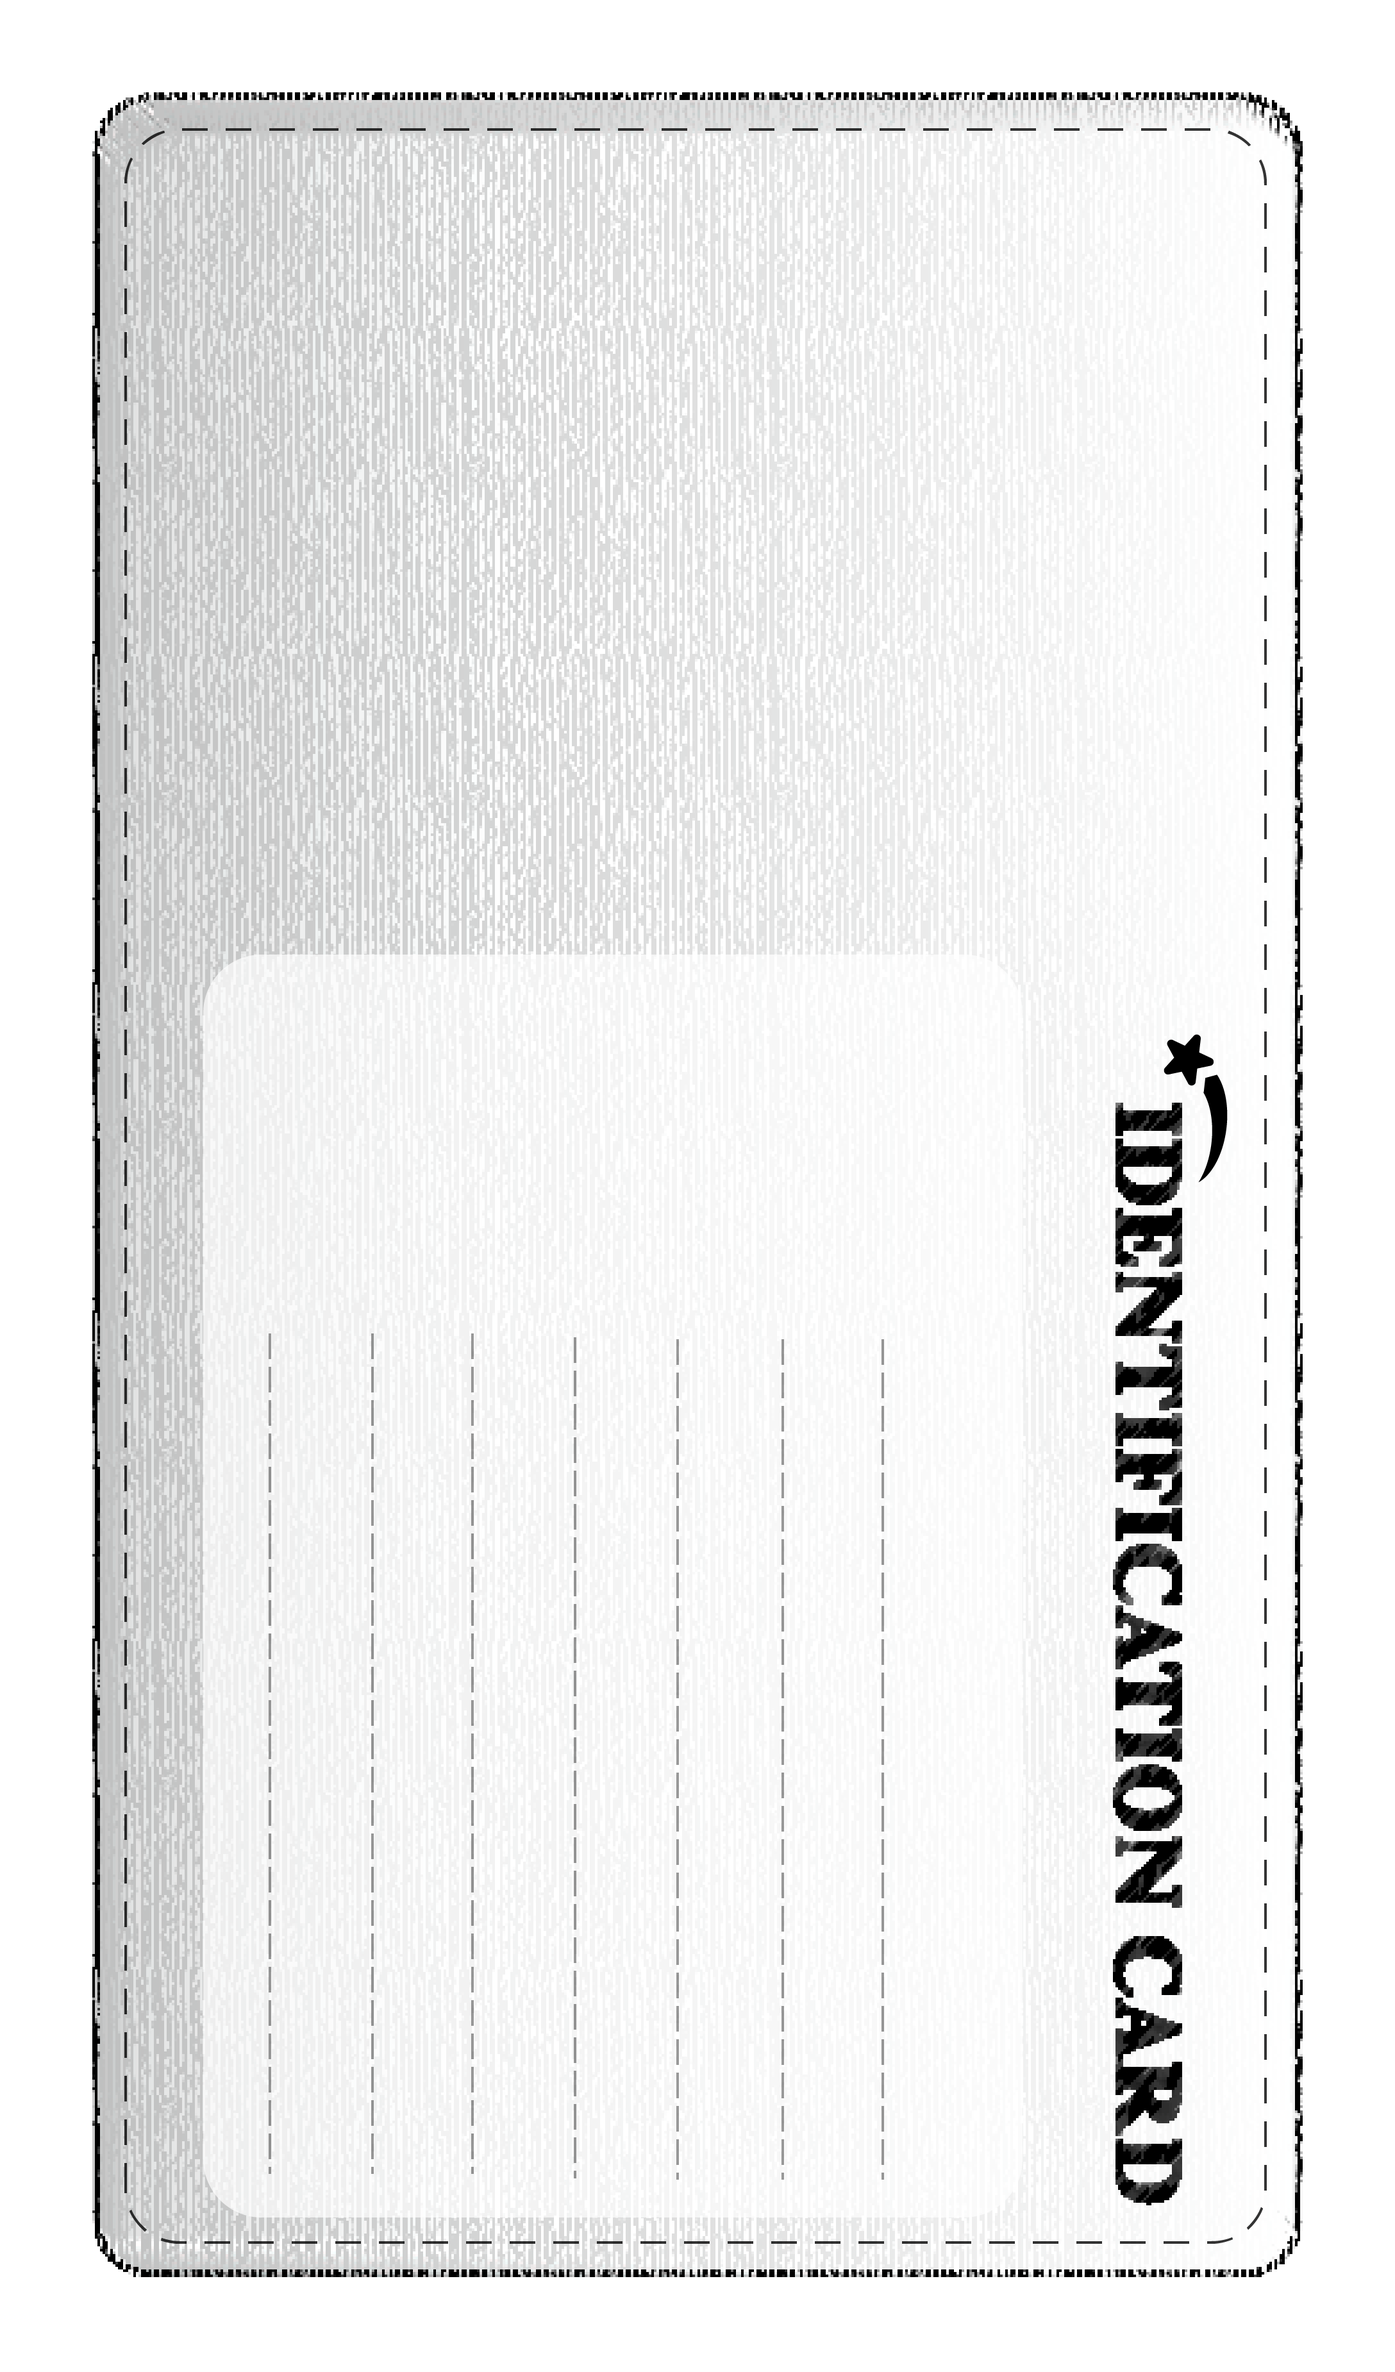
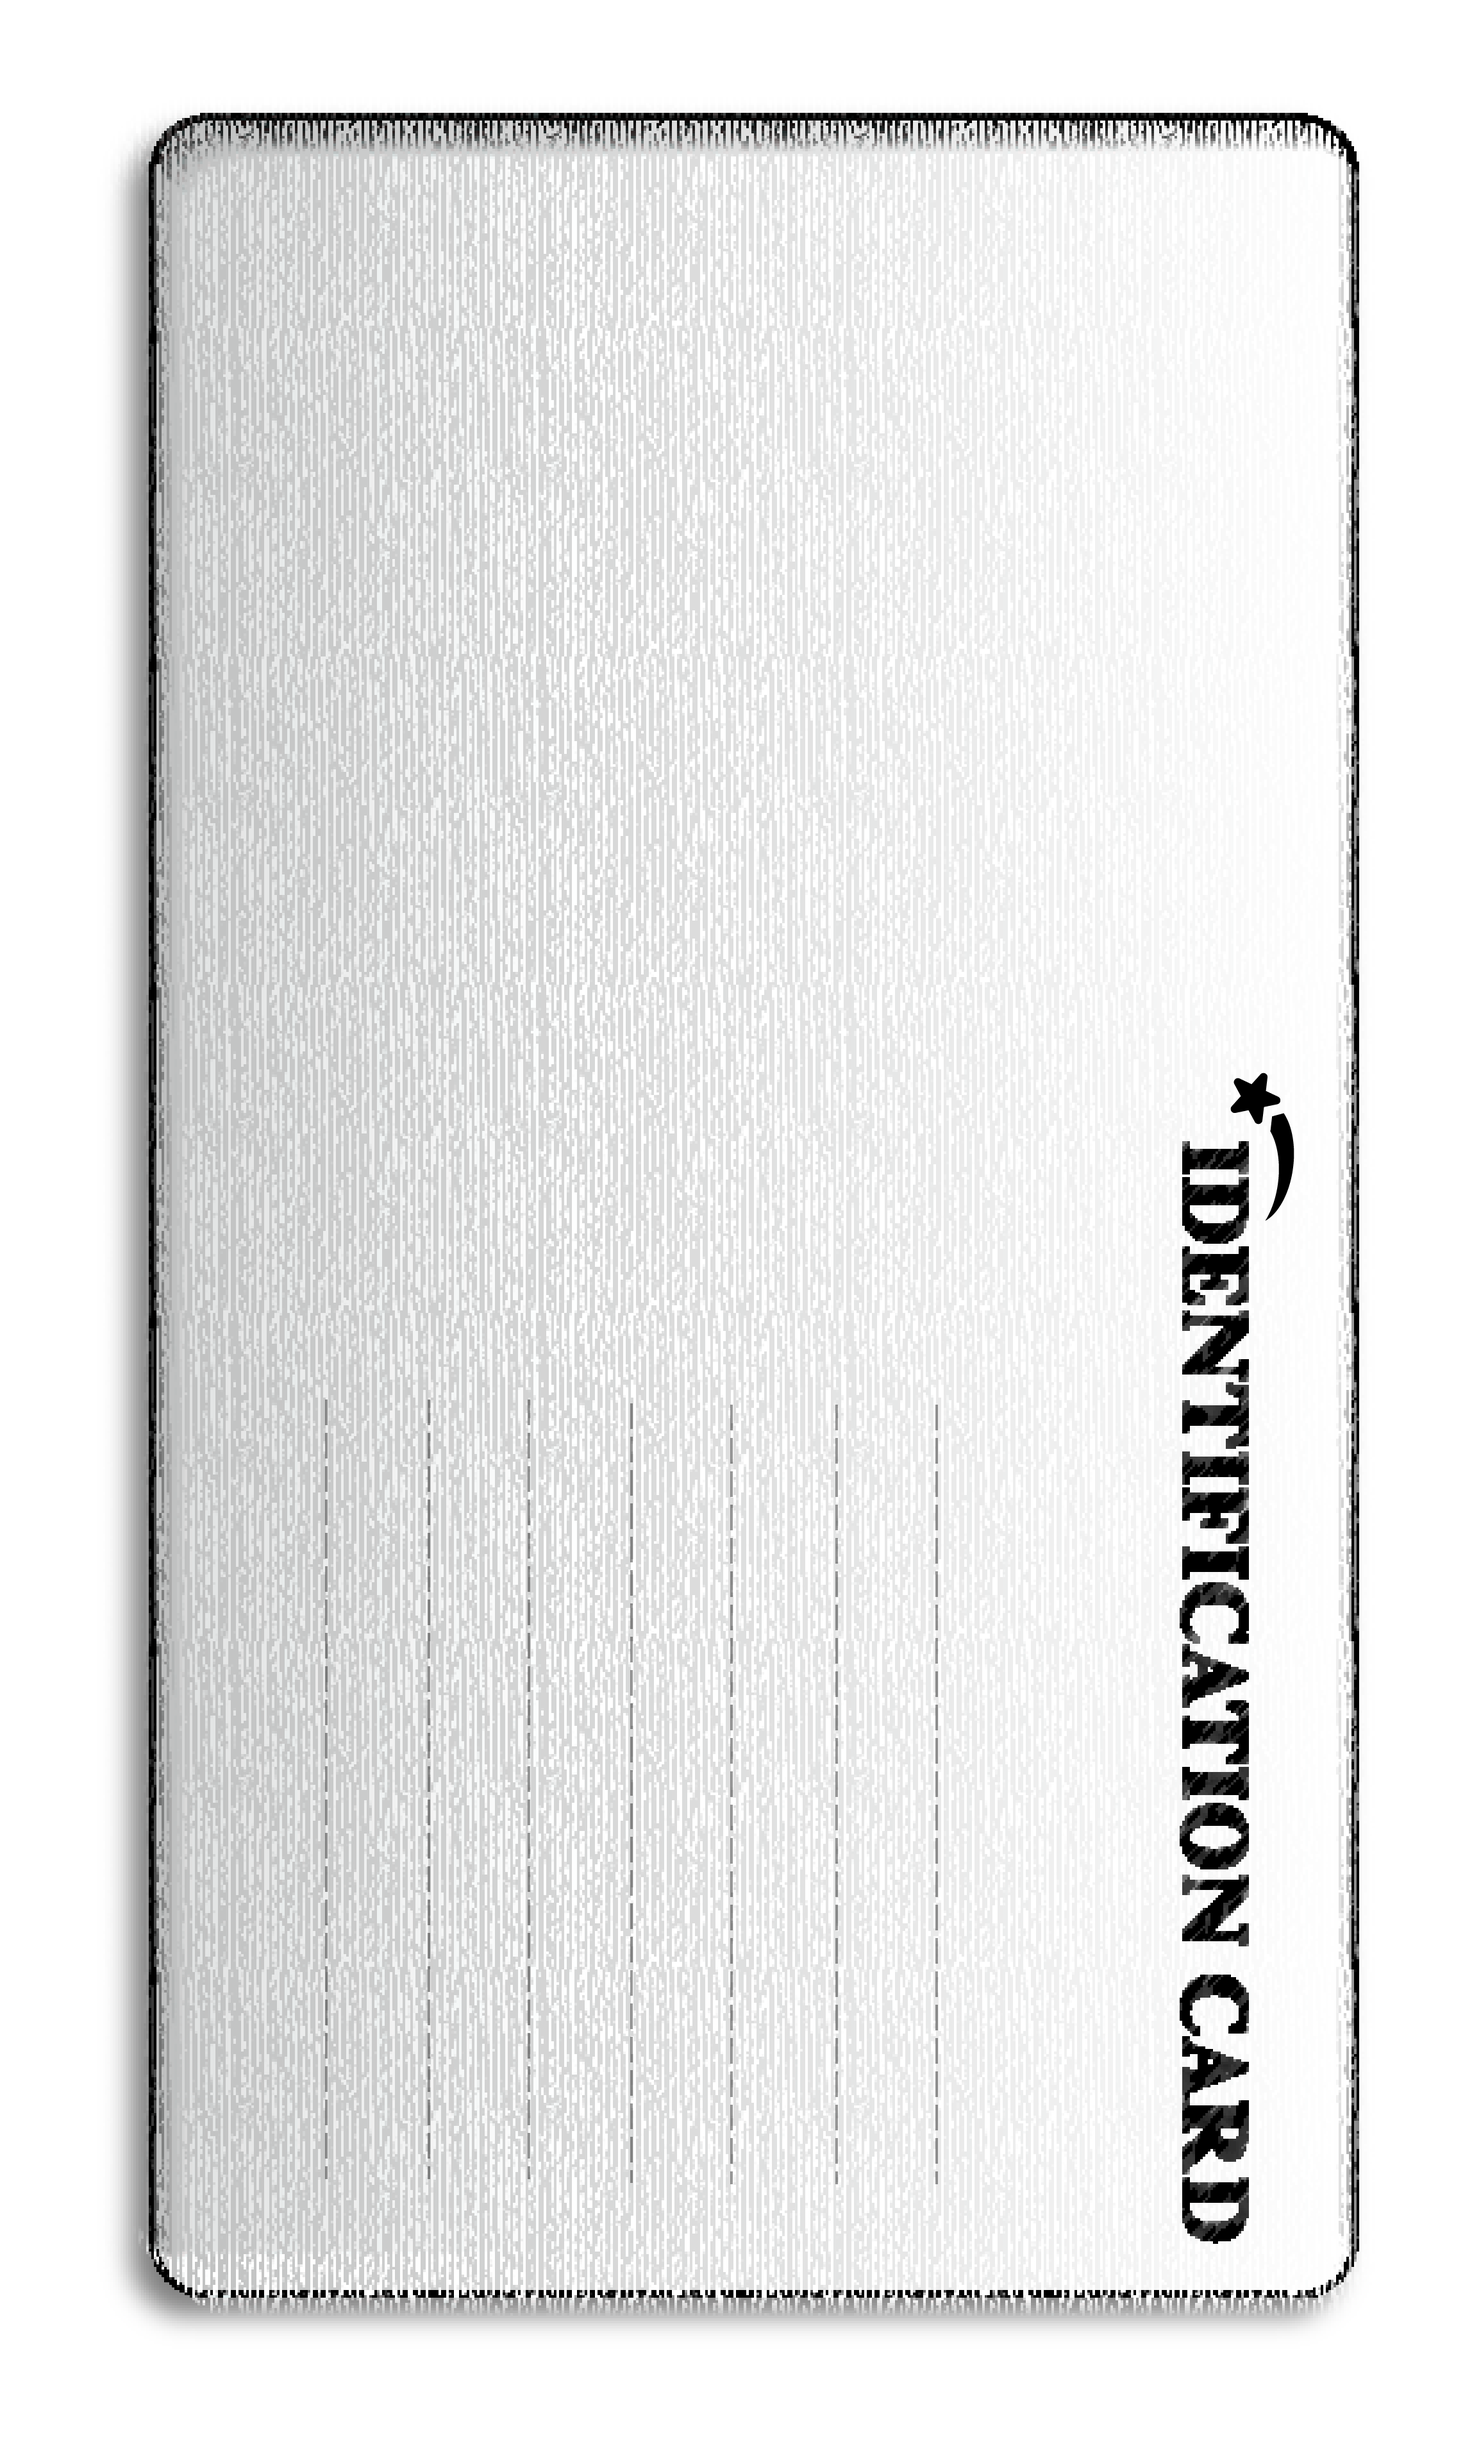
기본 배경 넣음

Changed region(s): [[0.0625, 0.0311, 0.9375, 0.9635], [0.625, 0.8081, 0.6562, 0.8703]]

diff --git a/src/components/CardInfo/CardInfo.module.css b/src/components/CardInfo/CardInfo.module.css
@@ -39,12 +39,13 @@
 }
 
 .card {
-  /* background-color: aqua; */
   margin: 0 1rem;
   width: 20rem;
   height: 30rem;
   perspective: 300rem;
 }
+
+
 
 .cardFront,
 .cardBack {

diff --git a/src/components/MyCard/MyCard.module.css b/src/components/MyCard/MyCard.module.css
@@ -39,7 +39,7 @@
 }
 
 .card {
-  /* background-color: aqua; */
+  background-color: aqua;
   margin: 0 1rem;
   width: 20rem;
   height: 30rem;
